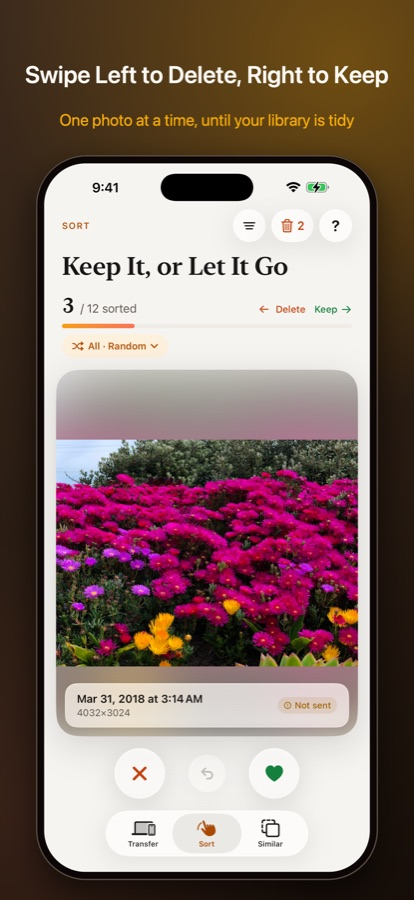
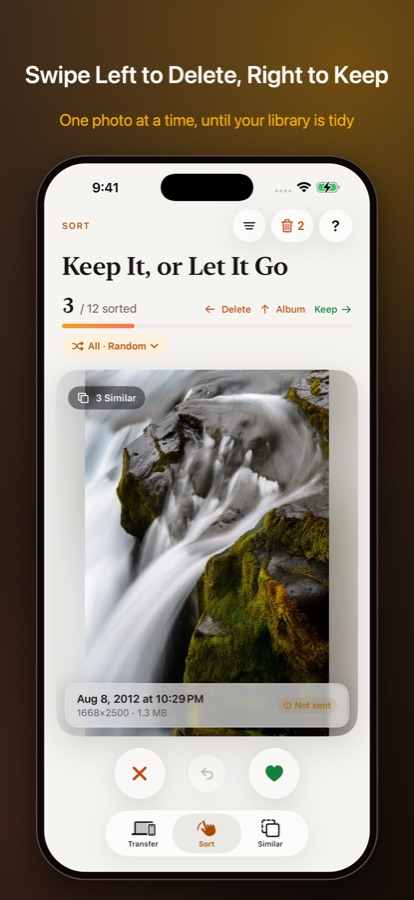
Whereto 1.3: what's new, feature cards and refreshed Sort/Similar screenshots

diff --git a/_src/ja/index.html b/_src/ja/index.html
@@ -16,12 +16,12 @@
       <article class="card">
         <span class="icon">整理</span>
         <h3>左で削除、右で残す</h3>
-        <p>写真が1枚ずつ表示されるので、ひと目で判断できます。完全版なら月を指定して整理することもできます。確定するまで削除されず、いつでも取り消せます。</p>
+        <p>写真が1枚ずつ表示されるので、ひと目で判断できます。上にスワイプでアルバムに追加。ランダムや「あの日の今日」で整理でき、完全版なら複数の月をまとめて選べます。確定するまで削除されず、いつでも取り消せます。</p>
       </article>
       <article class="card">
         <span class="icon">類似</span>
         <h3>重複も似た写真も、まとめて検出</h3>
-        <p>5つの判定方法で、重複・連写・同じ写真の別バージョンを見つけ、解像度がいちばん高い1枚をおすすめします。</p>
+        <p>6つの判定方法で、重複・連写・同じ写真の別バージョン・ブレた写真を見つけ、解像度がいちばん高い1枚をおすすめします。2枚を並べて同時に拡大して比較できます。</p>
       </article>
       <article class="card">
         <span class="icon">転送</span>
@@ -38,14 +38,15 @@
       <img src="/whereto/shots/ja/05-privacy.jpg" alt="プライバシー：写真はiPhoneの中だけ" width="414" height="900" loading="lazy" decoding="async">
     </div>
 
-    <h2>バージョン 1.2 の新機能</h2>
+    <h2>バージョン 1.3 の新機能</h2>
     <ul class="whatsnew">
-      <li><strong>月ごとに整理</strong>：完全版では年と月を選んで整理できます。ライブラリ全体からランダムに表示する方法も選べます。</li>
-      <li><strong>なぞって複数選択</strong>：アルバム・フォルダ・類似の一覧で、長押ししてなぞるとまとめて選択できます。「写真」Appと同じ操作です。</li>
-      <li><strong>類似スキャンがもっと便利に</strong>：結果は次のスキャンまで保存され、Appを閉じても続きから整理できます。全画面プレビューで同じグループを左右に切り替え、その場で削除に選べます。選択した項目は「選択済み」でまとめて確認できます。</li>
-      <li><strong>無料版でもAIを試せる</strong>：広告を1本見ると「AI 画像特徴」を1回使えます。同じ場面を別の角度で撮った写真も見つかります。</li>
-      <li><strong>iCloudのダウンロード状況を表示</strong>：写真がまだiCloudにあるとき、プレビューに進み具合（%）が表示されます。</li>
-      <li><strong>英語・日本語・iPadに対応</strong>：AppはiPhoneの言語に、パソコンの転送ページはブラウザの言語に合わせて表示されます。</li>
+      <li><strong>上にスワイプでアルバムへ</strong>：整理しながら分類でき、複数のアルバムにまとめて追加することもできます。</li>
+      <li><strong>あの日の今日・複数の月をまとめて</strong>：無料版でも過去の今日の写真を整理できます。完全版は複数の月をまとめて選べます。</li>
+      <li><strong>カードの情報が充実</strong>：Live Photos・連写・お気に入り・ファイルサイズを表示し、ビデオはカード上で再生。お気に入りは削除前にもう一度確認し、類似の結果に入っている写真には「似ている写真 N 枚」と表示します。</li>
+      <li><strong>整理の結果を年月ごとに</strong>：複数選択して、まとめて取り消し・残す・削除ができます。</li>
+      <li><strong>類似スキャンがもっと便利に</strong>：「ブレているかも」と、2枚を同時に拡大できる並べて比較を追加。コピーを削除すると、アルバムとお気に入りは残した写真に引き継がれます。</li>
+      <li><strong>大きく表示</strong>：Live Photosを再生でき、消音モードでもビデオの音が出ます。</li>
+      <li><strong>転送ページ</strong>：HEICをJPGに変換でき、ダウンロードできなかった項目は再試行できます。</li>
     </ul>
 
     <div class="note">
@@ -53,7 +54,7 @@
     </div>
 
     <h2>無料で始めて、買い切りで解放</h2>
-    <p>無料版では1日20枚まで整理でき（広告を見て追加可能）、類似スキャンは「ファイルサイズと内容」（「AI 画像特徴」は広告を見て1回試用可能）、転送機能はすべて使えます。気に入ったら完全版を一度購入するだけ：整理は無制限、月ごとの整理、類似スキャンの5つの方法すべて、広告なし、ファミリー共有にも対応。サブスクリプションはありません。</p>
+    <p>無料版では1日20枚まで整理でき（広告を見て追加可能）、ランダムと「あの日の今日」に対応、類似スキャンは「ファイルサイズと内容」（「AI 画像特徴」は広告を見て1回試用可能）、転送機能はすべて使えます。気に入ったら完全版を一度購入するだけ：整理は無制限、月ごとの整理、類似スキャンのすべての方法、広告なし、ファミリー共有にも対応。サブスクリプションはありません。</p>
 
     <h2>お困りですか？</h2>
     <p><a href="support.html">サポートページ</a>をご覧いただくか、<a href="mailto:quchu.app@gmail.com">quchu.app@gmail.com</a> までメールでお問い合わせください。</p>

diff --git a/whereto/ja/index.html b/whereto/ja/index.html
@@ -41,12 +41,12 @@
       <article class="card">
         <span class="icon">整理</span>
         <h3>左で削除、右で残す</h3>
-        <p>写真が1枚ずつ表示されるので、ひと目で判断できます。完全版なら月を指定して整理することもできます。確定するまで削除されず、いつでも取り消せます。</p>
+        <p>写真が1枚ずつ表示されるので、ひと目で判断できます。上にスワイプでアルバムに追加。ランダムや「あの日の今日」で整理でき、完全版なら複数の月をまとめて選べます。確定するまで削除されず、いつでも取り消せます。</p>
       </article>
       <article class="card">
         <span class="icon">類似</span>
         <h3>重複も似た写真も、まとめて検出</h3>
-        <p>5つの判定方法で、重複・連写・同じ写真の別バージョンを見つけ、解像度がいちばん高い1枚をおすすめします。</p>
+        <p>6つの判定方法で、重複・連写・同じ写真の別バージョン・ブレた写真を見つけ、解像度がいちばん高い1枚をおすすめします。2枚を並べて同時に拡大して比較できます。</p>
       </article>
       <article class="card">
         <span class="icon">転送</span>
@@ -63,14 +63,15 @@
       <img src="/whereto/shots/ja/05-privacy.jpg" alt="プライバシー：写真はiPhoneの中だけ" width="414" height="900" loading="lazy" decoding="async">
     </div>
 
-    <h2>バージョン 1.2 の新機能</h2>
+    <h2>バージョン 1.3 の新機能</h2>
     <ul class="whatsnew">
-      <li><strong>月ごとに整理</strong>：完全版では年と月を選んで整理できます。ライブラリ全体からランダムに表示する方法も選べます。</li>
-      <li><strong>なぞって複数選択</strong>：アルバム・フォルダ・類似の一覧で、長押ししてなぞるとまとめて選択できます。「写真」Appと同じ操作です。</li>
-      <li><strong>類似スキャンがもっと便利に</strong>：結果は次のスキャンまで保存され、Appを閉じても続きから整理できます。全画面プレビューで同じグループを左右に切り替え、その場で削除に選べます。選択した項目は「選択済み」でまとめて確認できます。</li>
-      <li><strong>無料版でもAIを試せる</strong>：広告を1本見ると「AI 画像特徴」を1回使えます。同じ場面を別の角度で撮った写真も見つかります。</li>
-      <li><strong>iCloudのダウンロード状況を表示</strong>：写真がまだiCloudにあるとき、プレビューに進み具合（%）が表示されます。</li>
-      <li><strong>英語・日本語・iPadに対応</strong>：AppはiPhoneの言語に、パソコンの転送ページはブラウザの言語に合わせて表示されます。</li>
+      <li><strong>上にスワイプでアルバムへ</strong>：整理しながら分類でき、複数のアルバムにまとめて追加することもできます。</li>
+      <li><strong>あの日の今日・複数の月をまとめて</strong>：無料版でも過去の今日の写真を整理できます。完全版は複数の月をまとめて選べます。</li>
+      <li><strong>カードの情報が充実</strong>：Live Photos・連写・お気に入り・ファイルサイズを表示し、ビデオはカード上で再生。お気に入りは削除前にもう一度確認し、類似の結果に入っている写真には「似ている写真 N 枚」と表示します。</li>
+      <li><strong>整理の結果を年月ごとに</strong>：複数選択して、まとめて取り消し・残す・削除ができます。</li>
+      <li><strong>類似スキャンがもっと便利に</strong>：「ブレているかも」と、2枚を同時に拡大できる並べて比較を追加。コピーを削除すると、アルバムとお気に入りは残した写真に引き継がれます。</li>
+      <li><strong>大きく表示</strong>：Live Photosを再生でき、消音モードでもビデオの音が出ます。</li>
+      <li><strong>転送ページ</strong>：HEICをJPGに変換でき、ダウンロードできなかった項目は再試行できます。</li>
     </ul>
 
     <div class="note">
@@ -78,7 +79,7 @@
     </div>
 
     <h2>無料で始めて、買い切りで解放</h2>
-    <p>無料版では1日20枚まで整理でき（広告を見て追加可能）、類似スキャンは「ファイルサイズと内容」（「AI 画像特徴」は広告を見て1回試用可能）、転送機能はすべて使えます。気に入ったら完全版を一度購入するだけ：整理は無制限、月ごとの整理、類似スキャンの5つの方法すべて、広告なし、ファミリー共有にも対応。サブスクリプションはありません。</p>
+    <p>無料版では1日20枚まで整理でき（広告を見て追加可能）、ランダムと「あの日の今日」に対応、類似スキャンは「ファイルサイズと内容」（「AI 画像特徴」は広告を見て1回試用可能）、転送機能はすべて使えます。気に入ったら完全版を一度購入するだけ：整理は無制限、月ごとの整理、類似スキャンのすべての方法、広告なし、ファミリー共有にも対応。サブスクリプションはありません。</p>
 
     <h2>お困りですか？</h2>
     <p><a href="support.html">サポートページ</a>をご覧いただくか、<a href="mailto:quchu.app@gmail.com">quchu.app@gmail.com</a> までメールでお問い合わせください。</p>

diff --git a/whereto/index.html b/whereto/index.html
@@ -45,12 +45,12 @@ if(l.indexOf('zh')!==0){location.replace(l.indexOf('ja')===0?'/whereto/ja/':'/wh
       <article class="card">
         <span class="icon">整理</span>
         <h3>左滑刪，右滑留</h3>
-        <p>照片一張一張出現，看一眼就決定；完整版還能挑某個月份來整理。標記不會立刻刪除，確認前照片都還在，按錯隨時復原。</p>
+        <p>照片一張一張出現，看一眼就決定；往上滑就放進相簿。可以選隨機、那年今日，完整版還能一次挑好幾個月。標記不會立刻刪除，確認前照片都還在，按錯隨時復原。</p>
       </article>
       <article class="card">
         <span class="icon">相似</span>
         <h3>重複與相似，一次找出</h3>
-        <p>五種判斷方式找出重複、連拍與同一張的不同版本，建議保留解析度最高的那張。</p>
+        <p>六種判斷方式找出重複、連拍、同一張的不同版本與可能模糊的照片，建議保留解析度最高的那張；還能並排比較，兩張同時放大。</p>
       </article>
       <article class="card">
         <span class="icon">傳輸</span>
@@ -67,14 +67,15 @@ if(l.indexOf('zh')!==0){location.replace(l.indexOf('ja')===0?'/whereto/ja/':'/wh
       <img src="/whereto/shots/zh/05-privacy.jpg" alt="隱私：照片只在你的手機上" width="414" height="900" loading="lazy" decoding="async">
     </div>
 
-    <h2>1.2 版的新功能</h2>
+    <h2>1.3 版的新功能</h2>
     <ul class="whatsnew">
-      <li><strong>依月份整理</strong>：完整版可以挑某年某月的照片來整理，不再只能隨機出現。</li>
-      <li><strong>按住拖動連續多選</strong>：在相簿、資料夾和相似的清單裡，按住往旁邊拖就能一次選好幾張，跟「照片」App 一樣。</li>
-      <li><strong>相似掃描更好用</strong>：結果會保留到下次打開，關掉 App 也能接著處理；全螢幕預覽可以左右滑看同一組，直接標記要刪的那張；「已勾選」一次看完所有勾選的項目。</li>
-      <li><strong>免費版也能試 AI</strong>：看一則廣告，就能用一次「AI 視覺」找出同一場景、不同角度的照片。</li>
-      <li><strong>看得到 iCloud 下載進度</strong>：照片還在 iCloud 時，預覽會顯示下載到幾 %。</li>
-      <li><strong>英文、日文與 iPad</strong>：App 跟著手機語言，電腦上的傳輸網頁跟著瀏覽器語言。</li>
+      <li><strong>上滑放進相簿</strong>：整理時往上滑，邊整理邊分類，也能一次放進好幾個相簿。</li>
+      <li><strong>那年今日、一次整理好幾個月</strong>：免費版也能整理往年的今天；完整版可以一次勾好幾個月。</li>
+      <li><strong>卡片資訊更多</strong>：標示原況照片、連拍、喜好與檔案大小，影片直接在卡片上播放；喜好的照片刪除前會再問一次；在相似結果裡的照片會標出「相似 N 張」。</li>
+      <li><strong>整理結果依年月分組</strong>：可以多選，一次取消標記、改成保留或刪除。</li>
+      <li><strong>相似更好用</strong>：新增「可能模糊」，並排比較兩張同時放大；刪除副本時，相簿與喜好會轉給留下的那張。</li>
+      <li><strong>看大圖</strong>：可以播放原況照片，手機切到靜音時影片也有聲音。</li>
+      <li><strong>傳輸網頁</strong>：HEIC 照片可以轉成 JPG，沒下載到的項目會列出來、可以重試。</li>
     </ul>
 
     <div class="note">
@@ -82,7 +83,7 @@ if(l.indexOf('zh')!==0){location.replace(l.indexOf('ja')===0?'/whereto/ja/':'/wh
     </div>
 
     <h2>免費開始，一次買斷</h2>
-    <p>免費版每天可以整理 20 張（可看廣告多整理），相似掃描使用「檔案大小與內容」（「AI 視覺」可看廣告試用一次），傳輸功能完整免費。喜歡的話一次買斷完整版：整理不限張數、可依月份整理、五種相似判斷全部開放、沒有廣告，可家人共享。沒有訂閱。</p>
+    <p>免費版每天可以整理 20 張（可看廣告多整理），可以用隨機與那年今日，相似掃描使用「檔案大小與內容」（「AI 視覺」可看廣告試用一次），傳輸功能完整免費。喜歡的話一次買斷完整版：整理不限張數、可依月份整理、所有相似判斷方式全部開放、沒有廣告，可家人共享。沒有訂閱。</p>
 
     <h2>需要幫忙？</h2>
     <p>常見問題請看<a href="support.html">支援頁面</a>，或寫信給我們：<a href="mailto:quchu.app@gmail.com">quchu.app@gmail.com</a></p>

diff --git a/_src/en/index.html b/_src/en/index.html
@@ -16,12 +16,12 @@
       <article class="card">
         <span class="icon">Sort</span>
         <h3>Swipe left to delete, right to keep</h3>
-        <p>Photos appear one at a time so deciding is quick, and the Full Version lets you sort a single month. Nothing is deleted until you confirm, and you can undo anytime.</p>
+        <p>Photos appear one at a time so deciding is quick; swipe up to add one to an album. Sort at random or On This Day, or pick several months with the Full Version. Nothing is deleted until you confirm, and you can undo anytime.</p>
       </article>
       <article class="card">
         <span class="icon">Similar</span>
         <h3>Find duplicates in one scan</h3>
-        <p>Five methods find duplicates, bursts and different versions of the same photo, and suggest keeping the highest-resolution one.</p>
+        <p>Six methods find duplicates, bursts, different versions of the same photo and possibly blurry shots, and suggest keeping the highest-resolution one. Compare two side by side with synced zoom.</p>
       </article>
       <article class="card">
         <span class="icon">Transfer</span>
@@ -38,14 +38,15 @@
       <img src="/whereto/shots/en/05-privacy.jpg" alt="Privacy: your photos stay on your phone" width="414" height="900" loading="lazy" decoding="async">
     </div>
 
-    <h2>What’s new in 1.2</h2>
+    <h2>What’s new in 1.3</h2>
     <ul class="whatsnew">
-      <li><strong>Sort by month</strong>: with the Full Version, pick a year and month to sort instead of the whole library at random.</li>
-      <li><strong>Drag to select</strong>: in albums, folders and Similar, press and drag across photos to select many at once, just like the Photos app.</li>
-      <li><strong>A better Similar scan</strong>: results are kept until your next scan, so you can pick up where you left off; swipe through a group in full screen and mark photos for deletion right there; see everything you’ve checked in one list.</li>
-      <li><strong>Try AI for free</strong>: watch one ad to use “AI Visual Match” once and find the same scene shot from different angles.</li>
-      <li><strong>iCloud download progress</strong>: when a photo is still in iCloud, the preview shows how far the download has got.</li>
-      <li><strong>English, Japanese and iPad</strong>: the app follows your iPhone’s language, and the transfer web page follows your browser’s.</li>
+      <li><strong>Swipe up to add to an album</strong>: sort and organize in one go, even into several albums at once.</li>
+      <li><strong>On This Day and several months at once</strong>: the free version can sort past years’ photos from today; the Full Version can pick several months together.</li>
+      <li><strong>More on each card</strong>: Live Photo, burst, favorite and file size are shown, videos play right on the card, favorites ask once more before deletion, and photos in your Similar results show “N Similar”.</li>
+      <li><strong>Summary grouped by month</strong>: multi-select to unmark, keep or delete in one go.</li>
+      <li><strong>A better Similar scan</strong>: a new “Possibly Blurry” group and side-by-side compare with synced zoom; when you delete copies, their albums and favorites move to the photo you keep.</li>
+      <li><strong>Full-screen view</strong>: Live Photos play, and videos have sound even in silent mode.</li>
+      <li><strong>Transfer page</strong>: convert HEIC to JPG, and retry anything that didn’t download.</li>
     </ul>
 
     <div class="note">
@@ -53,7 +54,7 @@
     </div>
 
     <h2>Start free, buy once</h2>
-    <p>The free version sorts 20 photos a day (watch an ad for more), scans with “File Size &amp; Content” (watch an ad to try “AI Visual Match” once), and includes every transfer feature. If you like it, buy the Full Version once: unlimited sorting, sorting by month, all five similar-scan methods, no ads, and Family Sharing. No subscription.</p>
+    <p>The free version sorts 20 photos a day (watch an ad for more), at random or On This Day, scans with “File Size &amp; Content” (watch an ad to try “AI Visual Match” once), and includes every transfer feature. If you like it, buy the Full Version once: unlimited sorting, sorting by month, every similar-scan method, no ads, and Family Sharing. No subscription.</p>
 
     <h2>Need help?</h2>
     <p>See the <a href="support.html">support page</a>, or email us at <a href="mailto:quchu.app@gmail.com">quchu.app@gmail.com</a>.</p>

diff --git a/whereto/en/index.html b/whereto/en/index.html
@@ -41,12 +41,12 @@
       <article class="card">
         <span class="icon">Sort</span>
         <h3>Swipe left to delete, right to keep</h3>
-        <p>Photos appear one at a time so deciding is quick, and the Full Version lets you sort a single month. Nothing is deleted until you confirm, and you can undo anytime.</p>
+        <p>Photos appear one at a time so deciding is quick; swipe up to add one to an album. Sort at random or On This Day, or pick several months with the Full Version. Nothing is deleted until you confirm, and you can undo anytime.</p>
       </article>
       <article class="card">
         <span class="icon">Similar</span>
         <h3>Find duplicates in one scan</h3>
-        <p>Five methods find duplicates, bursts and different versions of the same photo, and suggest keeping the highest-resolution one.</p>
+        <p>Six methods find duplicates, bursts, different versions of the same photo and possibly blurry shots, and suggest keeping the highest-resolution one. Compare two side by side with synced zoom.</p>
       </article>
       <article class="card">
         <span class="icon">Transfer</span>
@@ -63,14 +63,15 @@
       <img src="/whereto/shots/en/05-privacy.jpg" alt="Privacy: your photos stay on your phone" width="414" height="900" loading="lazy" decoding="async">
     </div>
 
-    <h2>What’s new in 1.2</h2>
+    <h2>What’s new in 1.3</h2>
     <ul class="whatsnew">
-      <li><strong>Sort by month</strong>: with the Full Version, pick a year and month to sort instead of the whole library at random.</li>
-      <li><strong>Drag to select</strong>: in albums, folders and Similar, press and drag across photos to select many at once, just like the Photos app.</li>
-      <li><strong>A better Similar scan</strong>: results are kept until your next scan, so you can pick up where you left off; swipe through a group in full screen and mark photos for deletion right there; see everything you’ve checked in one list.</li>
-      <li><strong>Try AI for free</strong>: watch one ad to use “AI Visual Match” once and find the same scene shot from different angles.</li>
-      <li><strong>iCloud download progress</strong>: when a photo is still in iCloud, the preview shows how far the download has got.</li>
-      <li><strong>English, Japanese and iPad</strong>: the app follows your iPhone’s language, and the transfer web page follows your browser’s.</li>
+      <li><strong>Swipe up to add to an album</strong>: sort and organize in one go, even into several albums at once.</li>
+      <li><strong>On This Day and several months at once</strong>: the free version can sort past years’ photos from today; the Full Version can pick several months together.</li>
+      <li><strong>More on each card</strong>: Live Photo, burst, favorite and file size are shown, videos play right on the card, favorites ask once more before deletion, and photos in your Similar results show “N Similar”.</li>
+      <li><strong>Summary grouped by month</strong>: multi-select to unmark, keep or delete in one go.</li>
+      <li><strong>A better Similar scan</strong>: a new “Possibly Blurry” group and side-by-side compare with synced zoom; when you delete copies, their albums and favorites move to the photo you keep.</li>
+      <li><strong>Full-screen view</strong>: Live Photos play, and videos have sound even in silent mode.</li>
+      <li><strong>Transfer page</strong>: convert HEIC to JPG, and retry anything that didn’t download.</li>
     </ul>
 
     <div class="note">
@@ -78,7 +79,7 @@
     </div>
 
     <h2>Start free, buy once</h2>
-    <p>The free version sorts 20 photos a day (watch an ad for more), scans with “File Size &amp; Content” (watch an ad to try “AI Visual Match” once), and includes every transfer feature. If you like it, buy the Full Version once: unlimited sorting, sorting by month, all five similar-scan methods, no ads, and Family Sharing. No subscription.</p>
+    <p>The free version sorts 20 photos a day (watch an ad for more), at random or On This Day, scans with “File Size &amp; Content” (watch an ad to try “AI Visual Match” once), and includes every transfer feature. If you like it, buy the Full Version once: unlimited sorting, sorting by month, every similar-scan method, no ads, and Family Sharing. No subscription.</p>
 
     <h2>Need help?</h2>
     <p>See the <a href="support.html">support page</a>, or email us at <a href="mailto:quchu.app@gmail.com">quchu.app@gmail.com</a>.</p>

diff --git a/_src/zh/index.html b/_src/zh/index.html
@@ -16,12 +16,12 @@
       <article class="card">
         <span class="icon">整理</span>
         <h3>左滑刪，右滑留</h3>
-        <p>照片一張一張出現，看一眼就決定；完整版還能挑某個月份來整理。標記不會立刻刪除，確認前照片都還在，按錯隨時復原。</p>
+        <p>照片一張一張出現，看一眼就決定；往上滑就放進相簿。可以選隨機、那年今日，完整版還能一次挑好幾個月。標記不會立刻刪除，確認前照片都還在，按錯隨時復原。</p>
       </article>
       <article class="card">
         <span class="icon">相似</span>
         <h3>重複與相似，一次找出</h3>
-        <p>五種判斷方式找出重複、連拍與同一張的不同版本，建議保留解析度最高的那張。</p>
+        <p>六種判斷方式找出重複、連拍、同一張的不同版本與可能模糊的照片，建議保留解析度最高的那張；還能並排比較，兩張同時放大。</p>
       </article>
       <article class="card">
         <span class="icon">傳輸</span>
@@ -38,14 +38,15 @@
       <img src="/whereto/shots/zh/05-privacy.jpg" alt="隱私：照片只在你的手機上" width="414" height="900" loading="lazy" decoding="async">
     </div>
 
-    <h2>1.2 版的新功能</h2>
+    <h2>1.3 版的新功能</h2>
     <ul class="whatsnew">
-      <li><strong>依月份整理</strong>：完整版可以挑某年某月的照片來整理，不再只能隨機出現。</li>
-      <li><strong>按住拖動連續多選</strong>：在相簿、資料夾和相似的清單裡，按住往旁邊拖就能一次選好幾張，跟「照片」App 一樣。</li>
-      <li><strong>相似掃描更好用</strong>：結果會保留到下次打開，關掉 App 也能接著處理；全螢幕預覽可以左右滑看同一組，直接標記要刪的那張；「已勾選」一次看完所有勾選的項目。</li>
-      <li><strong>免費版也能試 AI</strong>：看一則廣告，就能用一次「AI 視覺」找出同一場景、不同角度的照片。</li>
-      <li><strong>看得到 iCloud 下載進度</strong>：照片還在 iCloud 時，預覽會顯示下載到幾 %。</li>
-      <li><strong>英文、日文與 iPad</strong>：App 跟著手機語言，電腦上的傳輸網頁跟著瀏覽器語言。</li>
+      <li><strong>上滑放進相簿</strong>：整理時往上滑，邊整理邊分類，也能一次放進好幾個相簿。</li>
+      <li><strong>那年今日、一次整理好幾個月</strong>：免費版也能整理往年的今天；完整版可以一次勾好幾個月。</li>
+      <li><strong>卡片資訊更多</strong>：標示原況照片、連拍、喜好與檔案大小，影片直接在卡片上播放；喜好的照片刪除前會再問一次；在相似結果裡的照片會標出「相似 N 張」。</li>
+      <li><strong>整理結果依年月分組</strong>：可以多選，一次取消標記、改成保留或刪除。</li>
+      <li><strong>相似更好用</strong>：新增「可能模糊」，並排比較兩張同時放大；刪除副本時，相簿與喜好會轉給留下的那張。</li>
+      <li><strong>看大圖</strong>：可以播放原況照片，手機切到靜音時影片也有聲音。</li>
+      <li><strong>傳輸網頁</strong>：HEIC 照片可以轉成 JPG，沒下載到的項目會列出來、可以重試。</li>
     </ul>
 
     <div class="note">
@@ -53,7 +54,7 @@
     </div>
 
     <h2>免費開始，一次買斷</h2>
-    <p>免費版每天可以整理 20 張（可看廣告多整理），相似掃描使用「檔案大小與內容」（「AI 視覺」可看廣告試用一次），傳輸功能完整免費。喜歡的話一次買斷完整版：整理不限張數、可依月份整理、五種相似判斷全部開放、沒有廣告，可家人共享。沒有訂閱。</p>
+    <p>免費版每天可以整理 20 張（可看廣告多整理），可以用隨機與那年今日，相似掃描使用「檔案大小與內容」（「AI 視覺」可看廣告試用一次），傳輸功能完整免費。喜歡的話一次買斷完整版：整理不限張數、可依月份整理、所有相似判斷方式全部開放、沒有廣告，可家人共享。沒有訂閱。</p>
 
     <h2>需要幫忙？</h2>
     <p>常見問題請看<a href="support.html">支援頁面</a>，或寫信給我們：<a href="mailto:quchu.app@gmail.com">quchu.app@gmail.com</a></p>
